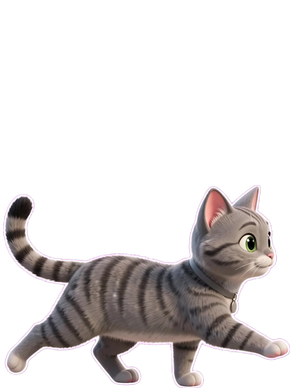
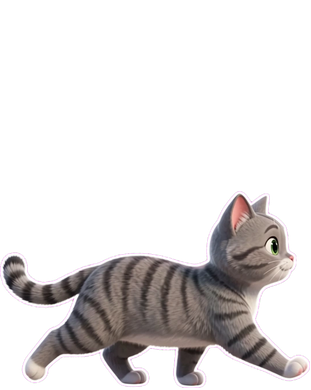
Site and README: drawn walks judged by Muse Wonder, five models, redaction
#39 replaced the leg rig with drawn 8-frame walks that muse-wonder-1.0 picks,
so the site now plays those frames with the app's measured stride
(strideFromFrames + walkFrame via npm run site-js) and the tail-wag copy is
gone. Adds Muse Wonder as the fifth model, ~90 s pet creation, secret
redaction before Muse Spark, and tsc/rustc sniffing from #38.

Changed region(s): [[0.0, 0.4615, 1.0, 1.0]]

diff --git a/docs/index.html b/docs/index.html
@@ -270,7 +270,7 @@ footer .sleepy { width: 130px; margin: 0 auto 16px; }
 <section id="how" class="wrap center">
   <span class="eyebrow">✨ How it works</span>
   <h2 class="reveal">One photo in.<br>One very good pup out.</h2>
-  <p class="lede reveal" style="margin-top:16px">No 3D artist, no rigging, about a minute of waiting. Meta's models do the drawing while you watch each pose pop in.</p>
+  <p class="lede reveal" style="margin-top:16px">No 3D artist, no rigging, about a minute and a half of waiting. Meta's models do the drawing while you watch each pose pop in.</p>
   <div class="steps">
     <div class="card reveal"><div class="num">1</div><h3>📸 Drop a photo</h3><p>Any photo of your dog or cat, whole body in view. Give them a name. That's the whole form.</p></div>
     <div class="card reveal"><div class="num">2</div><h3>🎨 Watch them come alive</h3><p><b>SAM 3.1</b> cuts your pet out, <b>Muse Image</b> draws a matching set of 3D poses: standing, stepping, sitting, napping, barking, rolling, blinking.</p></div>
@@ -285,7 +285,7 @@ footer .sleepy { width: 130px; margin: 0 auto 16px; }
       <h2>A little personality, from the first second.</h2>
       <p class="lede" style="margin-top:16px">While the poses are drawn, Pakkun learns your pet's breed and quirks ("Gentle · Goofy · Foodie") and shares a fun fact. Every pose fills its own bubble as it arrives.</p>
       <ul class="list">
-        <li><span>⏱</span>About 60 to 90 seconds from photo to pet</li>
+        <li><span>⏱</span>About 90 seconds from photo to pet</li>
         <li><span>🔑</span>Your own Meta key, kept in the macOS Keychain, never in a file</li>
         <li><span>🧸</span>No key? Pakkun is built in and ready to play</li>
       </ul>
@@ -308,7 +308,7 @@ footer .sleepy { width: 130px; margin: 0 auto 16px; }
       <img class="shot reveal" src="sniff.png" alt="Pakkun under a terminal with a failing test, saying Found a bug!" loading="lazy">
       <div class="reveal">
         <h3 style="font-size:30px">"Found a bug!"</h3>
-        <p class="lede" style="margin-top:12px">He reads only the front Terminal's text and the list of open windows. The one failing line is quoted to Muse Spark as data, never as instructions, and nothing is saved. Want to see his brain? "Show what Pakkun sees" opens a little card with his every decision.</p>
+        <p class="lede" style="margin-top:12px">He reads only the front Terminal's text and the list of open windows. The one failing line is quoted to Muse Spark as data, never as instructions, and nothing is saved. API keys, tokens and secrets in it are blanked out on your Mac first. He sniffs test failures, tsc errors and rustc errors. Want to see his brain? "Show what Pakkun sees" opens a little card with his every decision.</p>
       </div>
     </div>
   </div>
@@ -363,7 +363,7 @@ footer .sleepy { width: 130px; margin: 0 auto 16px; }
         <li><span>👀</span>Hover and he turns to look at you</li>
         <li><span>🤲</span>Wiggle the cursor over him to pet him: hearts!</li>
         <li><span>🥱</span>He yawns before a nap and stretches when he wakes</li>
-        <li><span>🐕</span>Dogs wag their tail while they trot; cats give a slow, smug sway</li>
+        <li><span>🐾</span>Every pet trots on a drawn 8-frame walk, and the feet never slide</li>
         <li><span>😉</span>He blinks, sits, barks, rolls over</li>
         <li><span>🖐</span>Drag him anywhere; he never steals a click from your work</li>
       </ul>
@@ -408,11 +408,12 @@ footer .sleepy { width: 130px; margin: 0 auto 16px; }
 <section class="band">
   <div class="wrap center">
     <span class="eyebrow">🦙 Built with Meta AI</span>
-    <h2 class="reveal">Four Meta models, one good boy.</h2>
+    <h2 class="reveal">Five Meta models, one good boy.</h2>
     <div class="grid4" style="text-align:left">
       <div class="mini model reveal"><b>SAM 3.1</b><p>Cuts your pet cleanly out of the photo and tidies every pose.</p><p style="margin-top:10px"><code>sam-3.1</code></p></div>
-      <div class="mini model reveal"><b>Muse Image</b><p>Draws a consistent set of 3D poses from one photo. Walk frames are baked from the standing pose, so his face never pops between steps.</p><p style="margin-top:10px"><code>muse-image-1.0</code></p></div>
+      <div class="mini model reveal"><b>Muse Image</b><p>Draws a consistent set of 3D poses from one photo, plus three candidate walk cycles of eight frames each.</p><p style="margin-top:10px"><code>muse-image-1.0</code></p></div>
       <div class="mini model reveal"><b>Muse Spark 1.3</b><p>Reads the failing line, decides how to react and writes his speech bubble and hints.</p><p style="margin-top:10px"><code>muse-spark-1.3</code></p></div>
+      <div class="mini model reveal"><b>Muse Wonder</b><p>Watches the drawn walk cycles and picks the most natural one, so he trots instead of shuffling.</p><p style="margin-top:10px"><code>muse-wonder-1.0</code></p></div>
       <div class="mini model reveal"><b>Voice Transcribe</b><p>Turns "Pakkun, sit" into a trick, only while you hold ⌥ Space.</p><p style="margin-top:10px"><code>muse-voice-transcribe-1.0</code></p></div>
     </div>
     <img class="shot reveal" style="margin-top:48px" src="pack-sheet.png" alt="Ten Pakkun poses generated from one photo: standing, blinking, walking, sitting, sleeping, barking, rolling" loading="lazy">
@@ -446,29 +447,30 @@ document.documentElement.classList.add("js");
 (() => {
   const P = 'img/pakkun/';
   const PETS = [{ d: P, poses: ['sit', 'bark', 'roll'] }, { d: 'img/mochi/', poses: ['sit', 'bark'] }, { d: 'img/kuma/', poses: ['sit', 'bark'] }];
-  PETS.slice(1).forEach(q => ['sit', 'bark', 'side_0', 'side_1', 'side_2', 'side_3'].forEach(n => { new Image().src = q.d + n + '.png'; }));
-  const F = { idle: 'idle_0', blink: 'idle_blink', sit: 'sit', bark: 'bark', roll: 'roll', sleep: 'sleep', walk: ['side_0', 'side_1', 'side_2', 'side_3'] };
+  const F = { idle: 'idle_0', blink: 'idle_blink', sit: 'sit', bark: 'bark', roll: 'roll', sleep: 'sleep', walk: [0, 1, 2, 3, 4, 5, 6, 7].map(i => 'side_' + i) };
+  PETS.slice(1).forEach(q => ['sit', 'bark', ...F.walk].forEach(n => { new Image().src = q.d + n + '.png'; }));
   const all = ['idle_0', 'idle_blink', 'sit', 'bark', 'roll', 'sleep', ...F.walk];
   all.forEach(n => { new Image().src = P + n + '.png'; });
   const reduce = matchMedia('(prefers-reduced-motion: reduce)').matches;
 
-  // the app's own baked walk rig (js/puppet.js, built from src/overlay/puppet.ts); the side_* flip-book is the fallback, as in the app
+  // the app's own walk maths (js/puppet.js, built from src/overlay/stride.ts + motion.ts): drawn frames, one per measured stride of distance walked
   const K = window.PixyPuppet;
-  const SPECIES = { 'img/pakkun/': 'dog', 'img/mochi/': 'cat', 'img/kuma/': 'dog' };
   const loadImg = src => new Promise((ok, no) => { const i = new Image(); i.onload = () => ok(i); i.onerror = no; i.src = src; });
-  const bake = async d => {
+  const measure = async d => {
     try {
-      const gait = K.GAITS[K.puppetSpecies(SPECIES[d])], im = await loadImg(d + 'idle_0.png'), w = im.naturalWidth, h = im.naturalHeight;
-      const a = K.alphaPlane(im), band = a && K.legBand(a, w, h, 4);
-      if (!band) return null;
-      const b = await K.bakeWalk(im, band, gait, a);
-      return { srcs: b.srcs, step: b.cycleNat / gait.frames, nw: w, nh: h };
-    } catch (e) { console.warn('Walk rig unavailable, using the flip-book', d, e && e.target ? e.target.src : e); return null; }
+      const names = [0, 1, 2, 3, 4, 5, 6, 7].map(i => d + 'side_' + i + '.png');
+      const [idle, ...fr] = await Promise.all([d + 'idle_0.png', ...names].map(loadImg));
+      const w = fr[0].naturalWidth, h = fr[0].naturalHeight;
+      const alphas = fr.map(K.alphaPlane);
+      const same = fr.every(f => f.naturalWidth === w && f.naturalHeight === h) && alphas.every(Boolean);
+      const frac = same ? K.strideFromFrames(alphas, w, h, 4, idle.naturalWidth) / idle.naturalWidth : 0.22;
+      return { srcs: names, frac, nw: idle.naturalWidth, nh: idle.naturalHeight };
+    } catch (e) { console.warn('Walk stride unavailable, using a timed flip-book', d, e && e.target ? e.target.src : e); return null; }
   };
   const rigs = {};
-  ['img/pakkun/', 'img/mochi/', 'img/kuma/'].forEach(d => bake(d).then(rg => { rigs[d] = rg; }));
-  // one frame per stride of distance walked, so the feet only move when the body does
-  const rigSrc = (rg, walked, w, h) => rg.srcs[K.walkFrame(walked, rg.srcs.length, rg.step * Math.min(w / rg.nw, h / rg.nh))];
+  ['img/pakkun/', 'img/mochi/', 'img/kuma/'].forEach(d => measure(d).then(rg => { rigs[d] = rg; }));
+  // one frame per stride of distance walked, so the feet only move when the body does (w x h is the box the idle art is fitted into)
+  const rigSrc = (rg, walked, w, h) => rg.srcs[K.walkFrame(walked, rg.srcs.length, rg.frac * rg.nw * Math.min(w / rg.nw, h / rg.nh))];
 
   // pose marquee
   const track = document.getElementById('track');
@@ -481,7 +483,7 @@ document.documentElement.classList.add("js");
   let x = 60, dir = 1, target = 400, mode = 'walk', until = 0, frame = 0, lastStep = 0, walked = 0, speed = 70, trick = 'sit', bubbleTimer;
   const TRICKS = { sit: 'bark', bark: 'roll', roll: 'sit' };
   const LINES = { sit: 'Sitting pretty!', bark: 'Woof woof!', roll: 'Belly rubs?' };
-  const set = n => { const s = n.startsWith('blob:') ? n : P + n + '.png'; if (n.startsWith('blob:') ? img.src !== s : !img.src.endsWith(s)) img.src = s; };
+  const set = n => { const s = n.includes('/') ? n : P + n + '.png'; if (!img.src.endsWith(s)) img.src = s; };
   const say = (t, ms = 1800) => { bubble.textContent = t; bubble.classList.add('show'); clearTimeout(bubbleTimer); bubbleTimer = setTimeout(() => bubble.classList.remove('show'), ms); };
   const W = () => desk.clientWidth - pet.clientWidth;
   const pick = () => { target = 20 + Math.random() * (W() - 40); };
@@ -502,7 +504,7 @@ document.documentElement.classList.add("js");
         const mv = Math.min(Math.abs(d), speed * dt / 1000);
         x += dir * mv; walked += mv;
         if (rigs[P]) set(rigSrc(rigs[P], walked, pet.clientWidth, pet.clientHeight));
-        else if (now - lastStep > 125) { frame = (frame + 1) % 4; lastStep = now; set(F.walk[frame]); }
+        else if (now - lastStep > 125) { frame = (frame + 1) % 8; lastStep = now; set(F.walk[frame]); }
       }
     } else if (now > until) {
       if (mode === 'sleep') { say('*stretch* ~'); }
@@ -583,7 +585,7 @@ document.documentElement.classList.add("js");
     for (let i = 0; i < N; i++) {
       const im = new Image(); const h = 70 + Math.random() * 110;
       im.style.height = h + 'px'; im.style.width = (h * 1.03) + 'px';
-      const p = { im, x: Math.random() * vw, dir: Math.random() < .5 ? -1 : 1, v: 40 + Math.random() * 120, y: innerHeight + Math.random() * 300, vy: 0, f: Math.floor(Math.random() * 4), pose: null, delay: i * 90, pet: PETS[i % 3], walked: 0, h };
+      const p = { im, x: Math.random() * vw, dir: Math.random() < .5 ? -1 : 1, v: 40 + Math.random() * 120, y: innerHeight + Math.random() * 300, vy: 0, f: Math.floor(Math.random() * 8), pose: null, delay: i * 90, pet: PETS[i % 3], walked: 0, h };
       rain.append(im); pups.push(p);
     }
     const start = performance.now(); let last = start;
@@ -597,7 +599,7 @@ document.documentElement.classList.add("js");
         if (Math.random() < .004 && !p.pose) { p.pose = p.pet.poses[Math.floor(Math.random() * p.pet.poses.length)]; p.poseEnd = t + 900; }
         if (p.pose && t > p.poseEnd) p.pose = null;
         if (!p.pose) { p.x += p.dir * p.v * dt; p.walked += p.v * dt; if (p.x < -60 || p.x > vw - 60) p.dir *= -1; }
-        p.f = (p.f + dt * 9) % 4;
+        p.f = (p.f + dt * 9) % 8;
         const rg = rigs[p.pet.d];
         p.im.src = p.pose ? p.pet.d + p.pose + '.png' : rg ? rigSrc(rg, p.walked, p.h * 1.03, p.h) : p.pet.d + F.walk[Math.floor(p.f)] + '.png';
         p.im.style.opacity = t > 6200 ? Math.max(0, 1 - (t - 6200) / 800) : 1;
@@ -625,7 +627,7 @@ document.documentElement.classList.add("js");
         if (id !== zoomId) return;
         walked += 240 * Math.min(50, now - last) / 1000; last = now;
         const rg = rigs[P];
-        cpet.src = rg ? rigSrc(rg, walked, 120, 120) : P + F.walk[Math.floor(walked / 20) % 4] + '.png';
+        cpet.src = rg ? rigSrc(rg, walked, 120, 120) : P + F.walk[Math.floor(walked / 20) % 8] + '.png';
         cpet.style.transform = `translateY(${-Math.abs(Math.sin((now - t0) / 120)) * 10}px)`;
         if (now - t0 < 1800) requestAnimationFrame(loop); else { cpet.style.transform = ''; cpet.src = P + 'sit.png'; }
       })(t0);

diff --git a/docs/js/puppet.js b/docs/js/puppet.js
@@ -1,2 +1,2 @@
 /* eslint-disable */
-"use strict";(()=>{function S(e){let t=new OffscreenCanvas(e.naturalWidth,e.naturalHeight).getContext("2d",{willReadFrequently:!0});return t?(t.drawImage(e,0,0),t.getImageData(0,0,e.naturalWidth,e.naturalHeight).data.subarray(3)):null}var R=(e,t,o)=>Math.floor(e/o)%t;function k(e,t,o,c=1){let s=(m,p)=>(e[(p*t+m)*c]??0)>128,l=-1,i=-1;for(let m=0;m<o;m++)for(let p=0;p<t;p++)if(s(p,m)){l<0&&(l=m),i=m;break}if(l<0)return null;let b=l+Math.max(1,Math.round((i-l)*.3)),h=0,f=0;for(let m=l;m<b;m++)for(let p=0;p<t;p++)s(p,m)&&(h++,f+=p);return f/h}var N=e=>{let t=(e??"").toLowerCase();return/\b(cat|kitten|kitty)s?\b/.test(t)?"cat":/\b(dog|puppy|pup)s?\b/.test(t)?"dog":null},v={dog:{frames:24,swing:.45,lift:.22,lowered:1,bounce:1.3,pitch:1,tail:{f:2,amp:.1,lag:.6}},cat:{frames:24,swing:.42,lift:.15,lowered:.97,bounce:.6,pitch:.6,tail:{f:1,amp:.07,lag:1.6}}};function w(e,t,o,c=1){let s=(n,a)=>(e[(a*t+n)*c]??0)>128,l=n=>{let a=0,r=0;for(let d=0;d<=t;d++)d<t&&s(d,n)?r++:(r>=3&&a++,r=0);return a},i=-1,b=-1;for(let n=0;n<o;n++)for(let a=0;a<t;a++)if(s(a,n)){i<0&&(i=n),b=n;break}if(i<0)return null;let h=-1,f=0;for(let n=b;n>=i;n--)if(l(n)>=2)h=n,f=0;else if(h>=0&&++f>2)break;let m=(b-h+1)/(b-i+1);if(h<0||m<.08||m>.45)return null;let p=Array.from({length:t},(n,a)=>{for(let r=h;r<=b;r++)if(s(a,r))return!0;return!1}),I=p.indexOf(!0),u=p.lastIndexOf(!0),g=(I+u)/2,x=0;for(let n=I,a=-1;n<=u;n++)p[n]?a=-1:(a<0&&(a=n),n-a+1>x&&(x=n-a+1,g=(a+n+1)/2));return{bellyY:h,splitX:g,bottom:b}}var H=(e,t)=>4*e.swing*t,U=(e,t,o,c,s)=>(s?1:-1)*c*o*Math.sin(2*Math.PI*e/t),X=(e,t,o,c,s)=>c*o*Math.max(0,(s?1:-1)*Math.cos(2*Math.PI*e/t));function C(e,t,o,c,s){let l=c.bottom-c.bellyY+1,i=f=>(e[(c.bellyY*t+f)*o]??0)>128,b=new Uint8Array(t*l),h=new Uint8Array(t*l);for(let f=0;f<t*l;f++){if(h[f]||!i(f))continue;let m=[f];h[f]=1;let p=0;for(let u=0;u<m.length;u++){let g=m[u],x=g%t;p+=x;let n=(g-x)/t;for(let a=-1;a<=1;a++)for(let r=-1;r<=1;r++){let d=x+r,y=n+a;if(d<0||y<0||d>=t||y>=l)continue;let A=y*t+d;!h[A]&&i(A)&&(h[A]=1,m.push(A))}}if(m.length<20)continue;let I=s?p/m.length>=c.splitX:p/m.length<c.splitX;for(let u of m)b[u]=I?1:2}return b}function B(e){let t=[];for(let o=0,c=0;o<=e.length;o++)o<e.length&&e[o]===e[c]||(e[c]&&t.push({x0:c,x1:o,front:e[c]===1}),c=o);return t}function W(e,t,o,c,s,l,i){let b=i?t:-1,h=Math.floor((l.bottom-l.bellyY+1)/2)*t;for(let n=h;n<s.length;n++)s[n]===2&&(b=i?Math.min(b,n%t):Math.max(b,n%t));if(b<0||b>=t)return null;let[f,m]=i?[0,b-2]:[b+3,t],p=0,I=0,u=-1;for(let n=0;n<o;n++)for(let a=0;a<t;a++)(e[(n*t+a)*c]??0)<=128||(p++,a>=f&&a<m&&(I++,u=u<0?a:i?Math.min(u,a):Math.max(u,a)));if(I<.03*p)return null;let g=i?m-1:f,x=Math.abs(g-u);return x<2||x>.3*t?null:{x0:f,x1:m,root:g,len:x}}var Y=(e,t,o,c,s)=>c.tail.amp*s*o**1.5*Math.sin(2*Math.PI*c.tail.f*e/t-c.tail.lag*o);async function G(e,t,o,c){let s=e.naturalWidth,l=e.naturalHeight,i=c??S(e),b=i&&k(i,s,l,4),h=b==null||b>t.splitX,f=t.bottom-t.bellyY+1,m=o.swing*f,p=o.lift*f;if(!i)throw new Error("no canvas");let I=C(i,s,4,t,h),u=W(i,s,l,4,I,t,h),g=[];for(let r=t.bellyY;r<l;r+=2){let d=Math.min(2,l-r),y=Array.from({length:s},(A,T)=>{if(u&&T>=u.x0&&T<u.x1)return 0;for(let L=0;L<d&&r+L<=t.bottom;L++){let E=I[(r+L-t.bellyY)*s+T];if(E)return E}return 0});g.push({y:r,sh:d,depth:Math.min(1,(r+d/2-t.bellyY)/f),runs:B(y)})}let x={srcs:[],bitmaps:[],cycleNat:H(o,f),centroids:[]},n=[];for(let r=0;r<o.frames;r++){let d=new OffscreenCanvas(s,l),y=d.getContext("2d",{willReadFrequently:!0});if(!y)throw new Error("no canvas");y.translate(0,l*(1-o.lowered)),y.scale(1,o.lowered);let A=u&&u.x0===0?u.x1:0,T=u?s-(u.x1-u.x0):s;if(y.drawImage(e,A,0,T,t.bellyY,A,0,T,t.bellyY),u)for(let M=u.x0;M<u.x1;M++){let P=Y(r,o.frames,Math.min(1,Math.abs(M-u.root)/u.len),o,u.len),_=Math.min(M,s-2);y.drawImage(e,_,0,2,l,_,P,2,l)}for(let M of g)for(let P of M.runs){let _=U(r,o.frames,M.depth,m,P.front),F=X(r,o.frames,M.depth,p,P.front),D=Math.min(M.sh+1,l-M.y);y.drawImage(e,P.x0,M.y,P.x1-P.x0,D,P.x0+_,M.y-F,P.x1-P.x0,D)}let L=y.getImageData(0,0,s,l).data,E=0,O=0;for(let M=3;M<L.length;M+=4)L[M]>128&&(E++,O+=(M>>2)%s);x.centroids.push(E?O/E:0),n.push(d)}let a=await Promise.all(n.map(r=>r.convertToBlob({type:"image/png"})));x.bitmaps=a.map(r=>Object.assign(new Image,{src:URL.createObjectURL(r)})),x.srcs=x.bitmaps.map(r=>r.src);try{await Promise.all(x.bitmaps.map(r=>r.decode()))}catch(r){throw x.srcs.forEach(d=>URL.revokeObjectURL(d)),r}return x}window.PixyPuppet={alphaPlane:S,headX:k,walkFrame:R,GAITS:v,bakeWalk:G,legBand:w,puppetSpecies:N};})();
+"use strict";(()=>{function f(t){let e=new OffscreenCanvas(t.naturalWidth,t.naturalHeight).getContext("2d",{willReadFrequently:!0});return e?(e.drawImage(t,0,0),e.getImageData(0,0,t.naturalWidth,t.naturalHeight).data.subarray(3)):null}var h=(t,e,m)=>Math.floor(t/m)%e;function d(t,e,m,b){let s=new Uint8Array(e),u=-1;for(let r=m-1;r>=0&&u<0;r--)for(let n=0;n<e;n++)if((t[(r*e+n)*b]??0)>128){u=r;break}if(u<0)return s;for(let r=Math.max(0,u-Math.round(.06*m));r<=u;r++)for(let n=0;n<e;n++)(t[(r*e+n)*b]??0)>128&&(s[n]=1);return s}function M(t,e,m,b){let s=t.reduce((n,o)=>n+o,0),u=e.reduce((n,o)=>n+o,0),r={d:0,score:0};for(let n=m;n<=b;n++){let o=0;for(let c=0;c+n<t.length;c++)t[c+n]&&e[c]&&o++;let a=o/Math.max(1,s+u-o);a>r.score&&(r={d:n,score:a})}return r}function p(t,e,m,b,s=e){let u=Math.ceil(.08*s),r=Math.floor(.4*s),n=.22*s;if(t.length<2)return n;let o=t.map(i=>d(i,e,m,b)),a=[];for(let i=0;i<o.length;i++){let l=M(o[i],o[(i+1)%o.length],u,r);l.score>=.3&&a.push(l.d)}if(a.length===0)return n;a.sort((i,l)=>i-l);let c=a.length>>1,x=a.length%2?a[c]:(a[c-1]+a[c])/2;return Math.min(r,Math.max(u,x))}window.PixyPuppet={alphaPlane:f,walkFrame:h,strideFromFrames:p};})();

diff --git a/scripts/site-puppet.ts b/scripts/site-puppet.ts
@@ -1,6 +1,6 @@
-// Entry for docs/js/puppet.js: the app's own walk rig, bundled for the landing page (npm run site-js).
+// Entry for docs/js/puppet.js: the app's own walk-stride maths, bundled for the landing page (npm run site-js).
 import { alphaPlane } from '../src/overlay/frames';
-import { headX, walkFrame } from '../src/overlay/motion';
-import { GAITS, bakeWalk, legBand, puppetSpecies } from '../src/overlay/puppet';
+import { walkFrame } from '../src/overlay/motion';
+import { strideFromFrames } from '../src/overlay/stride';
 
-(window as unknown as { PixyPuppet: object }).PixyPuppet = { alphaPlane, headX, walkFrame, GAITS, bakeWalk, legBand, puppetSpecies };
+(window as unknown as { PixyPuppet: object }).PixyPuppet = { alphaPlane, walkFrame, strideFromFrames };

diff --git a/README.md b/README.md
@@ -26,7 +26,7 @@
 
 PixyPup puts a tiny, very good pup on your Mac. Meet **Pakkun**: he lives along the bottom of your screen. He walks on a transparent, click-through layer, so he never gets in the way of your work. Pet him and he wiggles. Click him and he sits, barks, and rolls over. Leave him alone and he yawns, curls up, and naps.
 
-Then the magic part: **give him a photo of _your_ pet**, and about a minute later your own dog or cat is the one trotting across your Mac.
+Then the magic part: **give him a photo of _your_ pet**, and about a minute and a half later your own dog or cat is the one trotting across your Mac.
 
 <div align="center">
 <img src="docs/little-moments.png" alt="Pakkun sitting, saying I love belly rubs the most!, and yawning" width="90%">
@@ -36,13 +36,13 @@ Then the magic part: **give him a photo of _your_ pet**, and about a minute late
 
 | | |
 |---|---|
-| 📸 **Photo → pet in about a minute** | Drop a photo, type a name. **SAM 3.1** cuts your pet out, **Muse Image** draws a matching set of 3D poses, and you watch each one pop in. |
+| 📸 **Photo → pet in about 90 seconds** | Drop a photo, type a name. **SAM 3.1** cuts your pet out, **Muse Image** draws a matching set of 3D poses, and you watch each one pop in. |
 | 🧪 **Sniffs your failing tests** | A red line in your Terminal? He runs over, sniffs, and barks a line written by **Muse Spark 1.3**. Click him for a hint about *why* it failed. Fix it and he rolls over and cheers. |
 | 💬 **Perks up at messages** | A new Dock badge from Slack, Mail, Messages or any app, and his ears go up. |
 | 🙈 **Hides on calls** | Zoom or Meet open? He tiptoes to the screen edge until your call ends. |
 | 🎙 **Voice tricks** | Hold <kbd>⌥</kbd> <kbd>Space</kbd> and say *"Pakkun, sit"*, *"roll over"*, *"go to bed"*, *"come here"* or *"bark"*. Powered by **Meta Voice Transcribe**. |
 | 🫂 **Talk to Pakkun** | A desk buddy for rough days. Right-click him, choose *Talk to Pakkun…*, and tell him how your day is going. He answers in woofs and acts it out beside the chat. Nothing leaves your Mac until you press Send. |
-| 🤲 **Little moments** | He turns to look at you, wiggles with hearts when you pet him, blinks, yawns before naps and stretches when he wakes. Dogs wag their tails as they trot; cats sway theirs, very smugly. |
+| 🤲 **Little moments** | He turns to look at you, wiggles with hearts when you pet him, blinks, yawns before naps and stretches when he wakes. Every pet trots on a drawn 8-frame walk, with feet that never slide. |
 | 🐾 **Meet the pack** | Pakkun comes with two friends: **Mochi** the cat and **Kuma** the red Shiba. Open **Pet library** in the right-click or menu bar menu to add one; they stay after a restart. |
 | 🌪 **PixyPup Overload!** | One menu item drops every pet you've got, up to 24, across your screen for 25 seconds of pure chaos. |
 | 😴 **Calm and in control** | Snooze, size, energy, launch at login, hide from screen shares. He never steals a click or your focus. |
@@ -63,12 +63,13 @@ Mochi and Kuma were made by PixyPup's own pipeline from CC BY-SA 4.0 Wikimedia p
 <br><sub>🐶 <i>"Found a bug!"</i></sub>
 </div>
 
-## 🦙 Four Meta models, one good boy
+## 🦙 Five Meta models, one good boy
 
 | Model | What it does for your pet |
 |---|---|
 | 🎯 **SAM 3.1** (`sam-3.1`) | Cuts your pet cleanly out of the photo and tidies every pose. |
-| 🎨 **Muse Image** (`muse-image-1.0`) | Draws a consistent set of 3D poses from one photo. Walk frames are baked from the standing pose, so your pet's face never pops between steps. |
+| 🎨 **Muse Image** (`muse-image-1.0`) | Draws a consistent set of 3D poses from one photo, plus three candidate walk cycles of eight frames each. |
+| 🔍 **Muse Wonder** (`muse-wonder-1.0`) | Watches the drawn walk cycles and picks the most natural one. |
 | ⚡ **Muse Spark 1.3** (`muse-spark-1.3`) | Reads the failing test line (as quoted data, never as instructions), decides how to react, and writes his speech bubble and hints. |
 | 🎙 **Voice Transcribe** (`muse-voice-transcribe-1.0`) | Turns "Pakkun, sit" into a trick, only while you hold ⌥ Space. |
 
@@ -80,7 +81,7 @@ Mochi and Kuma were made by PixyPup's own pipeline from CC BY-SA 4.0 Wikimedia p
 
 - 🙅 **Everything is opt-in.** Screen awareness and voice are off by default, each explained before you turn it on.
 - 💾 **Nothing is saved.** No screen captures, no recorded audio. Only your pets and settings are kept. Your Meta key lives in the macOS Keychain, never in a file.
-- 👀 **He sees very little.** Only your front Terminal's text and the list of open windows. Never a screenshot of your screen.
+- 👀 **He sees very little.** Only your front Terminal's text and the list of open windows. Never a screenshot of your screen. API keys, tokens and `KEY=` values in that text are redacted on your Mac before anything is sent.
 - 🏢 **Work-laptop friendly.** An admin file can lock screen and voice off for a whole team ([docs/ENTERPRISE.md](docs/ENTERPRISE.md)).
 - 🧘 **Respects Reduce Motion.** Follows the macOS setting automatically.
 
@@ -118,7 +119,7 @@ npm run pose-test       # try the pose pipeline
 npm run build-native    # compile native/pixyhelper.swift
 npm run dist            # mac dmg (ad-hoc signed), written to release/
 npm run make-art        # regenerate the app icon and DMG background
-npm run site-js         # rebuild docs/js/puppet.js (the site's walk rig)
+npm run site-js         # rebuild docs/js/puppet.js (the site's walk)
 ```
 
 <details>
@@ -128,13 +129,13 @@ npm run site-js         # rebuild docs/js/puppet.js (the site's walk rig)
 On first launch a small welcome window offers to turn a photo of your dog or cat into a pet (right-click the pet, "Make a new pet…", any time). While the pet is drawn the photo melts into the cutout and poses pop in; at the end the window shrinks to the floor, the old pet trots off, and the new one drops in and says hi. Rehearse without a key: `PIXY_FAKE_PIPELINE=1 PIXY_FAKE_FAST=1 npm run dev` (dev builds only).
 
 ### Little moments
-Dogs and cats walk on a leg rig baked from the standing pose (24 frames at load), falling back to the AI walk if that fails. While they walk the tail moves too: dogs wag twice per step cycle, cats do one slow S-sway. Hover over your pet and it turns to look at you. Move the cursor back and forth over it to pet it: a happy wiggle and a few hearts. It yawns before a nap and stretches when it wakes. All of this is off when macOS "Reduce motion" is on.
+Every pet walks on a drawn 8-frame cycle, one frame per measured stride so the feet don't slide. For a new pet, Muse Image draws three candidate walk cycles and Meta's Muse Wonder (`muse-wonder-1.0`) picks the most natural one during creation. Hover over your pet and it turns to look at you. Move the cursor back and forth over it to pet it: a happy wiggle and a few hearts. It yawns before a nap and stretches when it wakes. All of this is off when macOS "Reduce motion" is on.
 
 ### Calm and control
 Right-click the pet (or use the menu bar icon) to Snooze it (1 hour, or until 8:00 tomorrow), change its Size (110/140/180 px) and Energy (sleepy/normal/playful), keep it in place, hide it from screen sharing (off by default), or open it at login (off by default). Choices persist in settings.json; a snoozed pet does no animation work at all. "Pet library" (pet menu or menu bar icon) lists the bundled pets not already on screen (Mochi, Kuma); picking one adds it and it persists across restarts. "PixyPup Overload!" (pet menu or menu bar icon) drops every saved and bundled pet, duplicated up to 24, over the screen for 25 seconds of cute chaos: it never takes a click, ends by itself, and "End the overload" in the menu bar stops it early.
 
 ### Notice my screen
-Off by default; turn it on from the pet's right-click menu ("Notice my screen"), after a short explainer. Then he can notice a failing test in your front Terminal (he runs to it, sniffs and barks a line; click him within 2 minutes for a short Muse Spark hint about why it failed; rerun until it's green and he rolls over and cheers), a new notification badge in your Dock, from Mail, Messages, Slack or any app (he perks up), or a Zoom/Meet window (he hides at the screen edge until the call ends). He reads only the front Terminal's text and the list of open windows; nothing is saved, and the one failing line is sent to Meta's model only to word his speech bubble (no key means he uses his own lines). A hint is sent only when you click him for one: up to 16 lines of that failure (1,200 characters), once, held in memory for 5 minutes and never saved. macOS asks once to let PixyPup control Terminal. Turn it off by unchecking the menu item; it also pauses while snoozed, and an organisation's admin file can lock it off. Staging the video: `docs/DEMO.md`. Rehearse without any permission: `PIXY_FAKE_SCREEN=1 npm run dev`, then `__pixyDebug.pref('screen:yes')` in the overlay's devtools (dev builds only); `__pixyDebug.pref('screen:fake:pass')` turns the scripted terminal green and `screen:fake:fail` back.
+Off by default; turn it on from the pet's right-click menu ("Notice my screen"), after a short explainer. Then he can notice a failing test in your front Terminal (he runs to it, sniffs and barks a line; click him within 2 minutes for a short Muse Spark hint about why it failed; rerun until it's green and he rolls over and cheers), a new notification badge in your Dock, from Mail, Messages, Slack or any app (he perks up), or a Zoom/Meet window (he hides at the screen edge until the call ends). He reads only the front Terminal's text and the list of open windows; nothing is saved, and the one failing line is sent to Meta's model only to word his speech bubble (no key means he uses his own lines). Secrets in it (API keys, tokens, JWTs, `KEY=` values) are redacted first. He sniffs test failures, TypeScript (`tsc`) errors and rustc errors. A hint is sent only when you click him for one: up to 16 lines of that failure (1,200 characters), once, held in memory for 5 minutes and never saved. macOS asks once to let PixyPup control Terminal. Turn it off by unchecking the menu item; it also pauses while snoozed, and an organisation's admin file can lock it off. Staging the video: `docs/DEMO.md`. Rehearse without any permission: `PIXY_FAKE_SCREEN=1 npm run dev`, then `__pixyDebug.pref('screen:yes')` in the overlay's devtools (dev builds only); `__pixyDebug.pref('screen:fake:pass')` turns the scripted terminal green and `screen:fake:fail` back.
 
 "Show what Pakkun sees" (right-click menu, off at every launch) pops a small card in the top-right corner: whether he is looking and why not, the failing line he found (80 characters, shown only on that card, never saved), the Dock badge, call, his decision and bubble, and a dashed box around the line for 3 seconds.
 

diff --git a/.claude/ceo/memory/scorecard.md b/.claude/ceo/memory/scorecard.md
@@ -38,4 +38,4 @@ Level: **L1** (target L1) since 2026-10-31.
 | 2026-11-01 | F30 | #34 | landed-clean | no | 2 CEO-found (overload dead branch, reveal fail-closed); fixed | no | CEO wrote it (design-heavy copy); no editor dispatch |
 | 2026-11-01 | F29 | #33 | landed-clean | no | 1 CONFIRMED (bake throw broke pack load) + species false positives + serial encode; all fixed; 2 CEO live findings (leg slivers, skating paws, far-leg fragments) fixed | no | fable plan, 4 sonnet editor runs, 1 haiku release run, 1 sonnet review |
 | 2026-11-01 | deep | (pending) | open | — | security diff: 2 CONFIRMED (redactor gaps, crisis Unicode) fixed; code review: 1 CONFIRMED (TimeoutError) + 5 PLAUSIBLE (3 fixed, Meet narrowing reverted, 2 accepted); RM: 1 CONFIRMED runtime (talk command held during turn) fixed, re-verify GO | no | 3 assess reads (1 sonnet security, 2 haiku Explore), 2 sonnet editor runs (worktrees), 1 sonnet security diff, 1 sonnet code review, 2 haiku release runs; CEO fixes inline |
-| 2026-11-01 | docs-latest | (pending) | open | — | CEO: browser-verified site (0 console errors, blob walk frames, chat replies, no horizontal scroll at 375 px); lint-disable banner on the generated bundle justified and escalated | no | 1 sonnet editor run (3 follow-ups); CEO ran gates + browser check; release v0.1.0 published on approval |
+| 2026-11-01 | docs-latest | #37 | open | — | round 2 after #38/#39: drawn-walk site re-verified (frames advance with distance), 5 models, redaction copy; CEO: browser-verified site (0 console errors, blob walk frames, chat replies, no horizontal scroll at 375 px); lint-disable banner on the generated bundle justified and escalated | no | 1 sonnet editor run (3 follow-ups); CEO ran gates + browser check; release v0.1.0 published on approval |

diff --git a/.claude/ceo/memory/retros.md b/.claude/ceo/memory/retros.md
@@ -29,3 +29,4 @@ One line per run: `- YYYY-MM-DD <mode/ID>: <friction observed> → <fix made or 
 - 2026-11-01 F29 (cute walk): green gates said nothing about looks; three visual defects (slivers, skating, far-leg fragments) only showed up in CDP frame strips → a frame-strip/GIF capture belongs in /pixypup-verify for any animation change; the maintainer's key lives in their login shell (zsh -lic), so real J1 runs are possible from an isolated profile
 - 2026-11-01 docs-latest: the ask was vague ("fix the website and readme"), and the maintainer's four follow-ups mid-run (walk mismatch, chat demo, dead Download) were the real spec; the SendMessage follow-ups to one editor worked well. Friction: (1) port 8765 was held by another worktree's static server, so the preview used 8766; (2) eslint lints docs/ bundles and the ignore list is protected, so it went to Needs a human. Template-level? No: project-specific.
 - 2026-11-01 deep: the deep sweep paid off (3 Explore/security reads → 17 fixes), but my own first-cut briefs carried two design errors that review caught (a fixed 10 s talk deadline; a too-narrow Meet rule) and the editors' unit tests proved helpers, not wiring — the release manager's real-launch mid-turn probe was what caught the talk defect. Worktree editors + cherry-pick worked cleanly (disjoint perimeters). No template friction.
+- 2026-11-01 docs-latest round 2: #39 landed mid-PR and made the rig walk and tail-wag copy wrong; resumed the same editor via SendMessage with the new main facts (cheap, kept context). Release v0.1.0 asset rebuilt from ffdfaad in a throwaway worktree so builds didn't collide. Python http.server resets connections under Chrome's parallel image loads: use a sturdier static server for site checks.

diff --git a/.claude/ceo/learnings/_shared.md b/.claude/ceo/learnings/_shared.md
@@ -1,6 +1,7 @@
 # Shared lessons (every agent)
 
 ## Active
+- When a PR changes walk or animation behaviour, grep README.md and docs/index.html for wag/rig/baked/model counts and re-copy `assets/pets/*/side_*` into `docs/img` (cmp) before closing: docs went stale within hours of #39.
 - A generated bundle committed under `docs/` must be regenerated from the real source (`npm run site-js`), never hand-ported: the site's walk drifted from the app once already (docs-latest).
 - After scripting inline JS into `docs/index.html`, extract it and `node --check` it: one redeclaration silently kills the whole page (docs-latest).
 - A "never sent" promise covers every later-turn buffer (history, retries), not just the first request: F31 crisis text leaked via chat history on the next turn (`src/main/talk-history.ts`).
